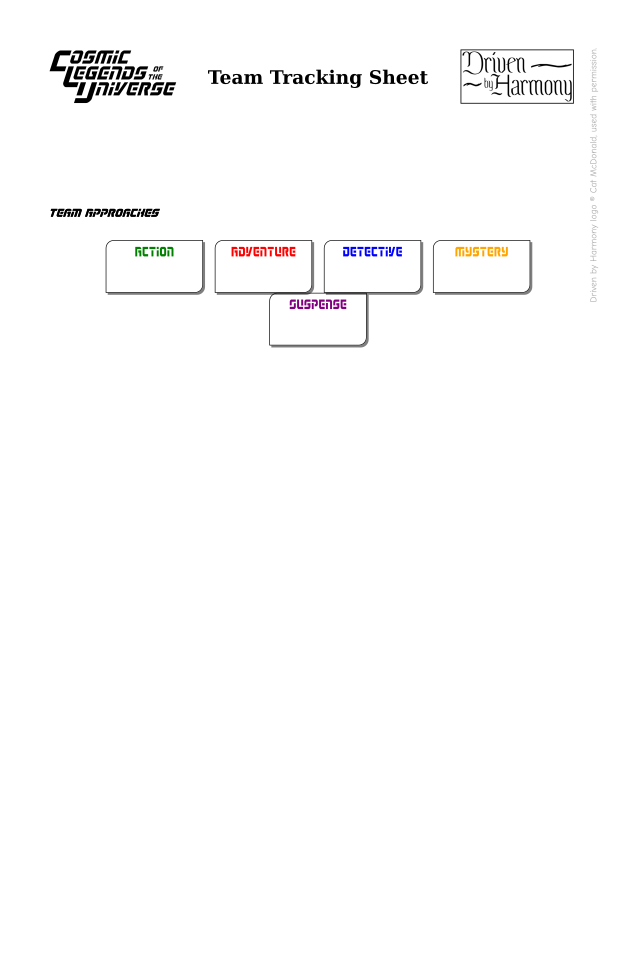
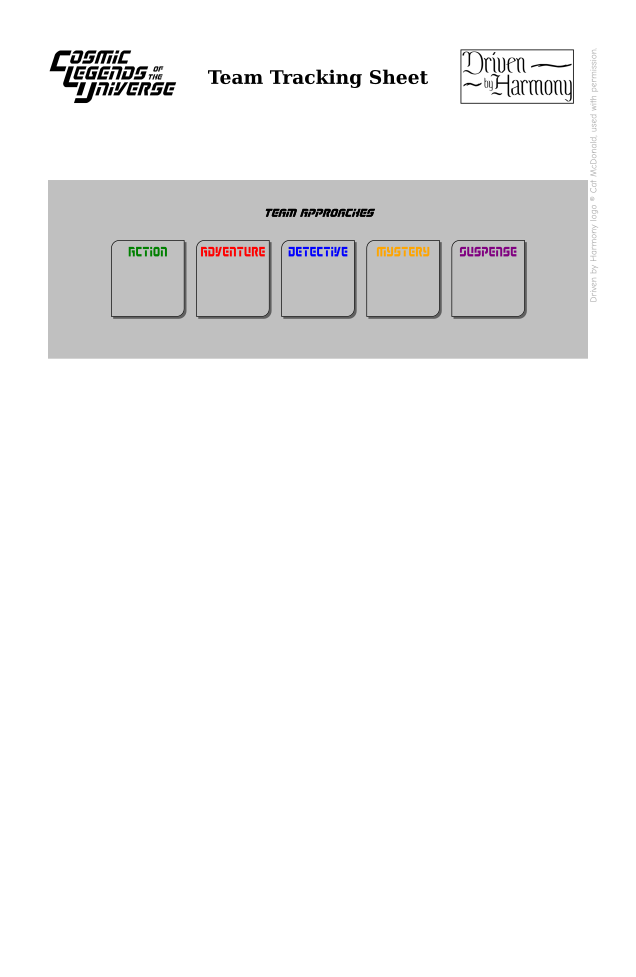
Team  Sheet

Changed region(s): [[0.0597, 0.1842, 0.9261, 0.3685]]

diff --git a/style/team-sheet.css b/style/team-sheet.css
@@ -1,88 +1,87 @@
 @import url("config.css");
 
-#team-sheet { page: teamsheet; column-span: all; }
+#team-sheet   { page: teamsheet; column-span: all; }
+header        { display: none;                     }
+header p.date { string-set: date     content();    }
+header h1     { string-set: gamename content();    }
 
-header          { display: none;                  }
-header p.date   { string-set: date content();     }
-header h1       { string-set: gamename content(); }
-
-@page teamsheet { size: var(--page-size);
-                  margin: var(--page-margin);
+@page teamsheet { size:          var(--page-size);
+                  margin:        var(--page-margin);
 	          margin-bottom: var(--page-margin);  }
 @page teamsheet { @top-left      { content: normal; } }
 @page teamsheet { @top-right     { content: normal; } }
 @page teamsheet { @bottom-center { content: normal; } }
-@page teamsheet { background: white;                  }
+@page teamsheet { background: white; }
 
 #team-sheet .gear > ul { margin-left:  0; }
 #team-sheet .gear > li { padding-left: 0; }
 
 #team-sheet .sheet-box {
-  width: 100%;
+  width:   100%;
   display: block;
-  height: 1in;
-  border: 0.5pt solid black;
+  height:  1in;
+  border:  0.5pt solid black;
   content: " ";
 }
 
 #team-sheet img.clu-logo {
-  height:    0.600in;
-  width:     auto;
-  position:  absolute;
-  top:       0.00in;
-  left:      0.00in;
+  height:   0.600in;
+  width:    auto;
+  position: absolute;
+  top:      0;
+  left:     0;
 }
 
 #team-sheet img.hd-logo {
-  height:    0.600in;
-  width:     auto;
-  position:  absolute;
-  top:       0.00in;
-  right:     0.13in;
+  height:   0.600in;
+  width:    auto;
+  position: absolute;
+  top:      0;
+  right:    0;
 }
 
 #team-sheet .hd-logo-copy {
-  transform-origin:  top right;
-  transform:         rotate(-90deg);
-  position:          absolute;
-  right:             0.00in;
-  top:               0.00in;
-  color:             var(--color-sheet-light);
-  font-size:         var(--sheet-tiny);
-  font-family:       var(--font);
+  transform-origin: top right;
+  transform:        rotate(-90deg);
+  position:         absolute;
+  right:            0.00in;
+  top:              0.00in;
+  color:            var(--color-sheet-light);
+  font-size:        var(--sheet-tiny);
+  font-family:      var(--font);
 }
 
 #team-sheet ul { margin: 0; padding: 0; }
 #team-sheet li { margin: 0; padding: 0; list-style-type: none; }
 
 #team-sheet > .membership.section > ul > li {
-  height: 0.25in;
+  height:        0.25in;
   border-bottom: 0.5pt solid black;
 }
 
 #team-sheet > ul > li > span.field { position: relative;
-  height: 0.25in;
+  height:        0.25in;
   border-bottom: 0.5pt solid black;
 }
 
 #team-sheet > .membership.section > ul > li > span.field:before {
-  position: absolute;
-  top: 0;
-  left: 0;
+  position:  absolute;
+  top:       0;
+  left:      0;
   font-size: var(--sheet-tiny);
-  content: "boop";
+  content:   "boop";
 }
 
 #team-sheet > .membership.section > ul > li > span.field.box:after {
   text-align: center;
-  display: block;
-  position: absolute;
-  left: 0;
-  right: 0;
-  bottom: 0;
-  color: var(--color-sheet-dark);
-  font-size: var(--sheet-box);
-  content: '\002610';
+  display:    block;
+  position:   absolute;
+  left:       0;
+  right:      0;
+  bottom:     0;
+  color:      var(--color-sheet-dark);
+  font-size:  var(--sheet-box);
+  content:    '\002610';
 }
 
 #team-sheet > .membership.section > ul > li > span.field.founder:before { content: "Founder?"    }
@@ -90,13 +89,13 @@ header h1       { string-set: gamename content(); }
 #team-sheet > .membership.section > ul > li > span.field.class:before   { content: "Core Class?" }
 
 #team-sheet > .header > ul > li > span.field { 
-  display: inline-block; 
+  display:       inline-block; 
   border-bottom: 0.5pt solid black; 
 }
 
-#team-sheet span.field    { 
-  display: inline-block; 
-  font-size: var(-small); 
+#team-sheet span.field { 
+  display:     inline-block; 
+  font-size:   var(-small); 
   font-family: var(--font-sheet-2); 
 }
 
@@ -109,12 +108,12 @@ header h1       { string-set: gamename content(); }
   padding-top:    4pt;
   padding-bottom: 4pt;
   margin-bottom:  8pt;
+  display:        block;
+  position:       relative;
   /*
   border-top:     0.5pt solid black;
   border-bottom:  0.5pt solid black;
   */
-  display:        block;
-  position:       relative;
 }
 
 #team-sheet > .header > .line :matches(h1, h2, h3, h4, h5, h6) {
@@ -122,12 +121,12 @@ header h1       { string-set: gamename content(); }
   font-family: var(--font-header);
   /*
   position:    absolute; 
-  top:  0; 
-  left: 0;
+  top:         0; 
+  left:        0;
   */
 }
 
-#team-sheet > :matches(h1, h2, h3, h4, h5, h6) { text-align: center; }
+#team-sheet :matches(h1, h2, h3, h4, h5, h6) { text-align: center; }
 
 #team-sheet > .header > .line.team-approach-line > ul > li {
   display: inline-block;
@@ -142,12 +141,12 @@ header h1       { string-set: gamename content(); }
 #team-sheet > .header > .line.team-approach-line > ul { text-align: center; }
 
 #team-sheet > .header > .line.team-approach-line > ul > li > span {
-  width:         1.0in; 
-  margin-right:  2.5pt;
-  margin-left:   2.5pt;
-  padding-top:   2.5pt;
-  height:        0.5in;
-  border:        0.5pt solid black;
+  width:         0.75in; 
+  margin-right:  2.50pt;
+  margin-left:   2.50pt;
+  padding-top:   2.50pt;
+  height:        0.75in;
+  border:        0.50pt solid black;
   text-align:    center;
   font-size:     var(--sheet);
   border-radius: var(--border-radius);
